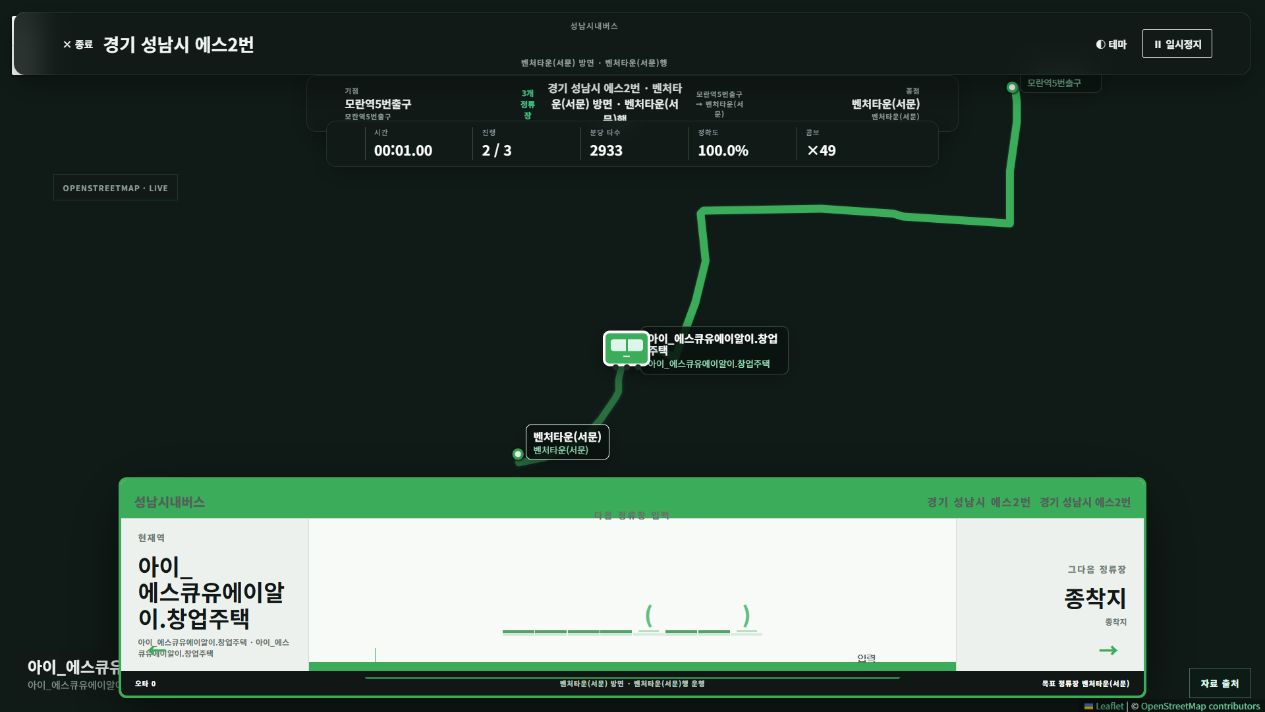
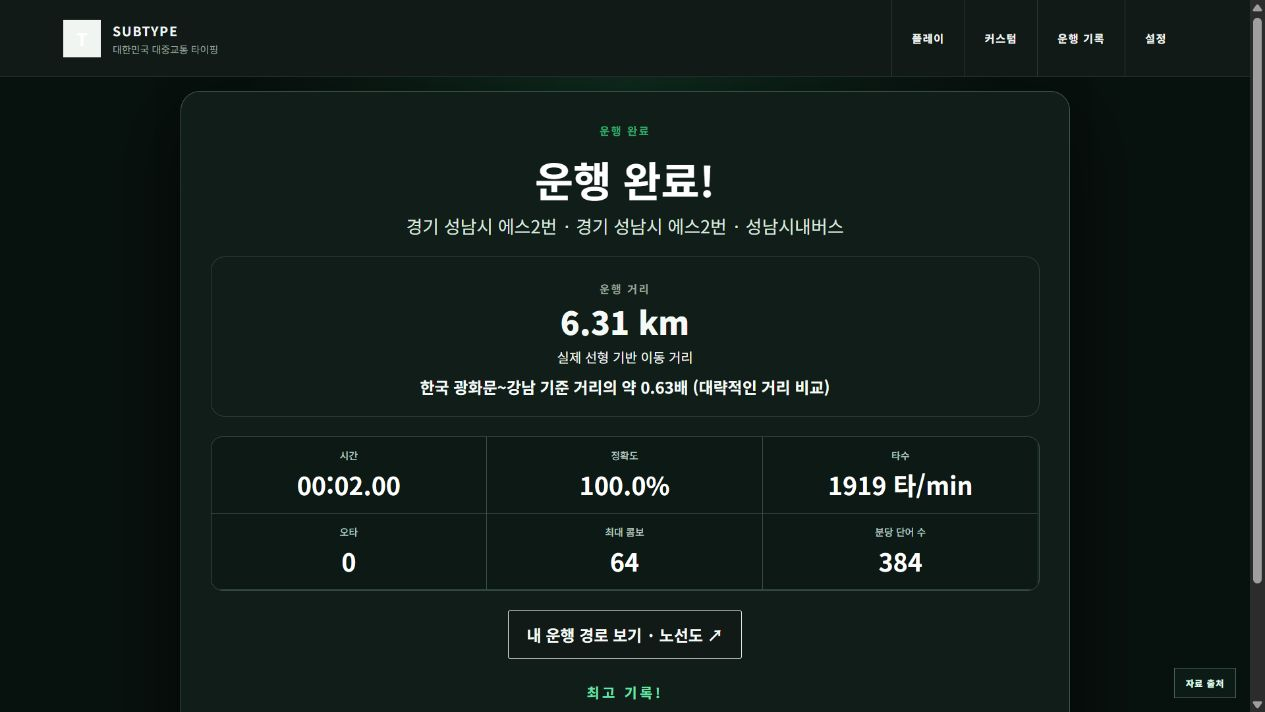
docs(kr): retain final CI deployment and rendered completion evidence

diff --git a/reports/kr-rebuild/README.md b/reports/kr-rebuild/README.md
@@ -15,6 +15,7 @@
 - Pages 배포는 실제 게임 자산과 지연 로딩 경로만 묶는다. 대용량 수집 원본은 Git에 보존하고 공개 사이트에서는 제외한다. 배포 파일·CI 상태는 deployment-check.json과 후속 보고서에서 확인한다.
 - 배포 커밋 `895454041c8ed4516a3de0508c21e5fa46f613ad`: 한국 카탈로그 CI와 Pages 배포 모두 성공. 실제 사이트의 목록·번들 해시가 로컬과 일치하고 신규 서울·경기·부산·철도 표본 10개 파일을 확인했다. 공개 사이트에서도 경기 성남시 에스2번을 완주했다. 증거는 expansion-deployment-workflows.json 및 expansion-live-browser.json에 있다.
 - 2026-11-01 현재 실제 선택 가능한 목록은 3,689개 노선·7,172방향이며, 기간 종료된 동부 한강버스 구간 1개·4방향은 이력에만 보존한다. 신규 추가 3,219개 노선은 모두 현재 목록에 포함된다.
+- 최종 게임 커밋 `081ef76854fdf511e26154e5bb91cd5364f95f34`는 동시 대만 다국어 변경을 보존하고 한국 고급 행선지 메뉴의 내부 ID 노출을 제거했다. 이 커밋의 한국 카탈로그 CI·Pages 배포 모두 성공했고, 공개 번들 해시 `468918de34f0` 일치를 재확인했다. expansion-final-deployment.json 참조.
 
 아래는 이전 471개 구축 시점의 기록이다. 이번 확장 브라우저 결과는 expansion-browser.json을 참조한다. 로그인한 Supabase 서버 저장은 미검증이다.
 
